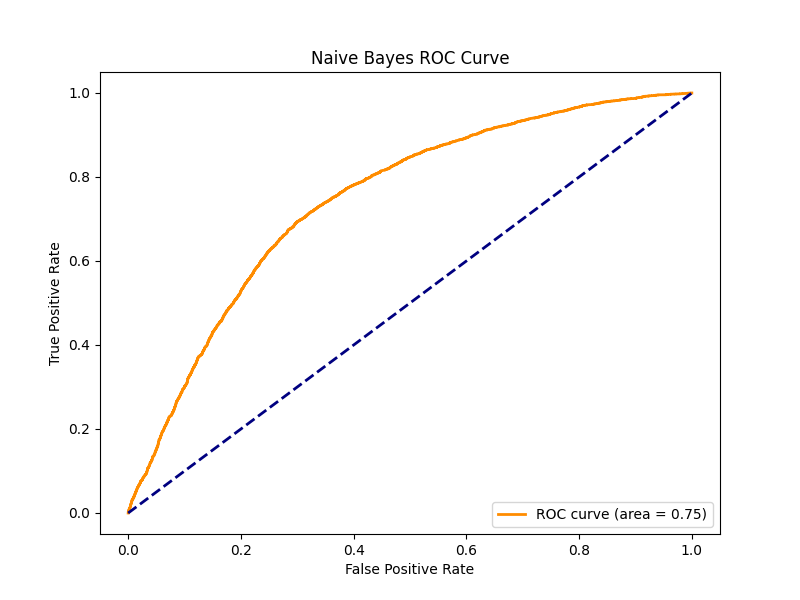
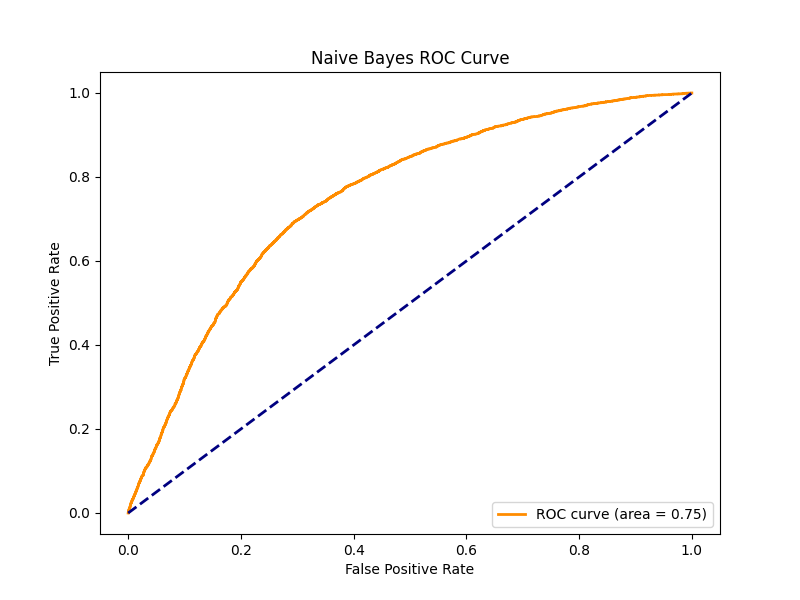
feat: add hyperparameter tuning

diff --git a/classification/naive_bayes/train_naive_bayes.py b/classification/naive_bayes/train_naive_bayes.py
@@ -1,5 +1,6 @@
+import numpy as np
 import pandas as pd
-from sklearn.model_selection import train_test_split
+from sklearn.model_selection import train_test_split, GridSearchCV
 from sklearn.naive_bayes import GaussianNB
 from sklearn.preprocessing import RobustScaler, PowerTransformer, OneHotEncoder
 from sklearn.compose import ColumnTransformer
@@ -57,16 +58,29 @@ model_pipeline = Pipeline(steps=[
     ('model', GaussianNB())
 ])
 
-# Train the model
-model_pipeline.fit(X_train, y_train)
+# --- Hyperparameter Tuning using GridSearchCV ---
+# Define the parameter grid to search
+param_grid = {
+    'model__var_smoothing': np.logspace(-9, -2, num=100)
+}
 
-# Save the model and preprocessor
-joblib.dump(model_pipeline.named_steps['model'], 'classification/models/naive_bayes_model.joblib')
-joblib.dump(model_pipeline.named_steps['preprocessor'], 'classification/scalers/naive_bayes_preprocessor.joblib')
+# Create the GridSearchCV object
+grid_search = GridSearchCV(model_pipeline, param_grid, cv=5, scoring='f1_weighted', n_jobs=-1)
 
-# Make predictions
-y_pred = model_pipeline.predict(X_test)
-y_prob = model_pipeline.predict_proba(X_test)[:, 1]
+# Train the model with GridSearchCV
+grid_search.fit(X_train, y_train)
+
+# Get the best pipeline
+best_pipeline = grid_search.best_estimator_
+
+# --- Save and Evaluate the Best Model ---
+# Save the best model and preprocessor
+joblib.dump(best_pipeline.named_steps['model'], 'classification/models/naive_bayes_model.joblib')
+joblib.dump(best_pipeline.named_steps['preprocessor'], 'classification/scalers/naive_bayes_preprocessor.joblib')
+
+# Make predictions with the best model
+y_pred = best_pipeline.predict(X_test)
+y_prob = best_pipeline.predict_proba(X_test)[:, 1]
 
 # Generate and save classification report
 accuracy = accuracy_score(y_test, y_pred)
@@ -75,7 +89,8 @@ recall = recall_score(y_test, y_pred)
 f1 = f1_score(y_test, y_pred)
 report = classification_report(y_test, y_pred)
 
-report_content = f"""Accuracy: {accuracy}
+report_content = f"""Best Parameters: {grid_search.best_params_}
+Accuracy: {accuracy}
 Precision: {precision}
 Recall: {recall}
 F1-Score: {f1}
